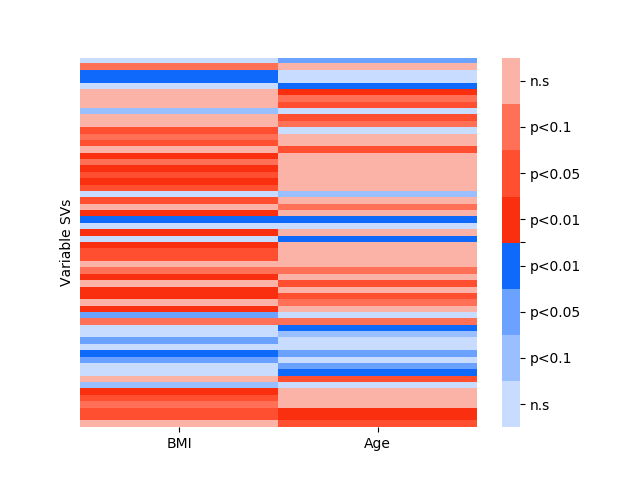
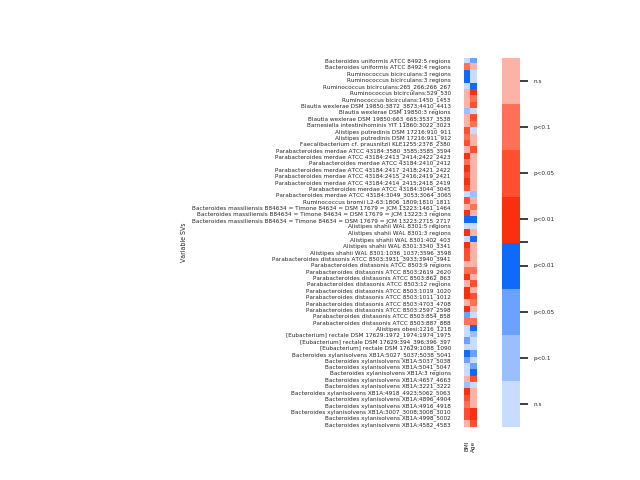
Added Taxonomy for Spearmans

diff --git a/Phenotype_Association/code/SpearmansVariable.py b/Phenotype_Association/code/SpearmansVariable.py
@@ -5,13 +5,28 @@ import bmiList
 import numpy as np
 from mne.stats import fdr_correction as fdr
 import seaborn as sns
-
+sns.set(font_scale = .375)
 
 #initiating the file to be read
 variables = "../data/vsgv.df"
 vfile = pd.read_pickle(variables)
 ageppl = bmiList.getAgeppl()
 bmippl = bmiList.getBMIppl()
+
+taxa = []
+sciname = []
+binslist = []
+for col in vfile.columns:
+    tax, bins = bmiList.parseName(col)
+    taxa.append(tax)
+    binslist.append(bins)
+
+sciname = bmiList.getTax(taxa)
+taxonomy = []
+for count in range(len(sciname)):
+    fullname = sciname[count] + binslist[count]
+    taxonomy.append(fullname)
+
 
 bmiOrder = []
 ageOrder = []
@@ -66,10 +81,12 @@ ageReject, ageQvals = fdr(agePvals, 0.05, 'indep')
 #P VALUE HEATMAP
 passAge = []
 passBMI = []
+passTax = []
 for count in range(len(agePvals)):
     if agePvals[count] < .1 or bmiPvals[count] < .1:
+        passTax.append(taxonomy[count])
         if ageRHO[count] < 0:
-            passAge.append((agePvals[count] * -1))    
+            passAge.append((agePvals[count] * -1)) 
         else:
             passAge.append(agePvals[count])
         if bmiRHO[count] < 0:
@@ -80,7 +97,7 @@ for count in range(len(agePvals)):
 
 heatset = np.column_stack((passBMI, passAge))
 colors = ["#c7dcff","#99bfff", "#6ba1ff","#0f69fa" ,"#fa2f0f" ,"#ff4f30", "#ff7057", "#fcb3a7"]
-fig = sns.heatmap(heatset, vmax = .12, vmin = -0.12, cmap = colors, center = 0, xticklabels = ["BMI", "Age"], yticklabels = False)
+fig = sns.heatmap(heatset, vmax = .12, vmin = -0.12, cmap = colors, center = 0, xticklabels = ["BMI", "Age"], yticklabels = passTax, square = True, label = 'small')
 fig.set(ylabel = "Variable SVs")
 colorbar = fig.collections[0].colorbar
 colorbar.set_ticks([-0.105, -0.075, -.045,-.015, 0,.015, .045, .075, 0.105])
@@ -91,8 +108,10 @@ e.savefig("../results/Variable_SV/SpearmanPvalsHeatmap.png")
 #Q VALUE HEATMAP
 passAge = []
 passBMI = []
+passTax = []
 for count in range(len(ageQvals)):
     if ageQvals[count] < .1 or bmiQvals[count] < .1:
+        passTax.append(taxonomy[count])
         if ageRHO[count] < 0:
             passAge.append((ageQvals[count] * -1))    
         else:
@@ -104,10 +123,7 @@ for count in range(len(ageQvals)):
 
 
 heatset = np.column_stack((passBMI, passAge))
-fig = sns.heatmap(heatset, vmax = .12, vmin = -0.12, cmap = colors, center = 0, xticklabels = ["BMI", "Age"], yticklabels = False)
+fig = sns.heatmap(heatset, vmax = .12, vmin = -0.12, cmap = colors, center = 0, xticklabels = ["BMI", "Age"], yticklabels = passTax, square = True, label = 'small')
 fig.set(ylabel = "Variable SVs")
-colorbar = fig.collections[0].colorbar
-colorbar.set_ticks([-0.105, -0.075, -.045,-.015, 0,.015, .045, .075, 0.105])
-colorbar.set_ticklabels(["n.s","q<0.1", "q<0.05", "q<0.01", " ", "q<0.01", "q<0.05", "q<0.1","n.s"])
 e = fig.get_figure() 
 e.savefig("../results/Variable_SV/SpearmanQvalsHeatmap.png")

diff --git a/Phenotype_Association/code/bmiList.py b/Phenotype_Association/code/bmiList.py
@@ -2,7 +2,9 @@ import pandas as pd
 from pandas import DataFrame as df
 from scipy import stats
 import numpy as npp
-
+from Bio import Entrez
+from bs4 import BeautifulSoup as BS
+import lxml    
 
 
 def getBMIppl():
@@ -40,25 +42,36 @@ def getAge(x):
     return null
 
 def getTax(x):
-    files = "../data/refseq-genbank.csv"
-    refFile = pd.read_csv(files)
-    for row in range(refFile.shape[0]):
-        if x == refFile.iloc[row][0] or x == refFile.iloc[row][1]:
-            return refFile.iloc[row][2]
-    return "Null"
+    Entrez.email = 'rajitzp@gmail.com'
+    handle = Entrez.efetch('taxonomy', id=x, rettype='xml')
+    response = Entrez.read(handle)
+    sci_names = []
+    for entry in response:
+         sci_names.append(entry.get('ScientificName'))
+    return sci_names
+    
+    
 
 def parseName(x):
-    start = 0
-    finalstr = ""
-    for num in range(len(x)):
-        if x[num] == "P" and start < 1:
-            start += 1
-            finalstr += x[num]
-        elif not x[num].isdigit() and start >= 1:
-            num = len(x)
-        else:
-            finalstr += x[num]
-    return finalstr
+    regionscount = 1
+    counting = True
+    counting2 = False
+    taxID = ""
+    bins = ""
+    for count in range(len(x)):
+        if x[count] == "." and counting:
+            counting = False
+        if x[count] == ":" and not counting:
+            counting2 = True
+        if counting:
+            taxID += x[count]
+        if counting2:
+            bins += x[count]
+            if x[count] == ";":
+                regionscount += 1
+    if regionscount > 2:
+        bins = ":" + str(regionscount) + " regions"
+    return taxID, bins
         
 
         
